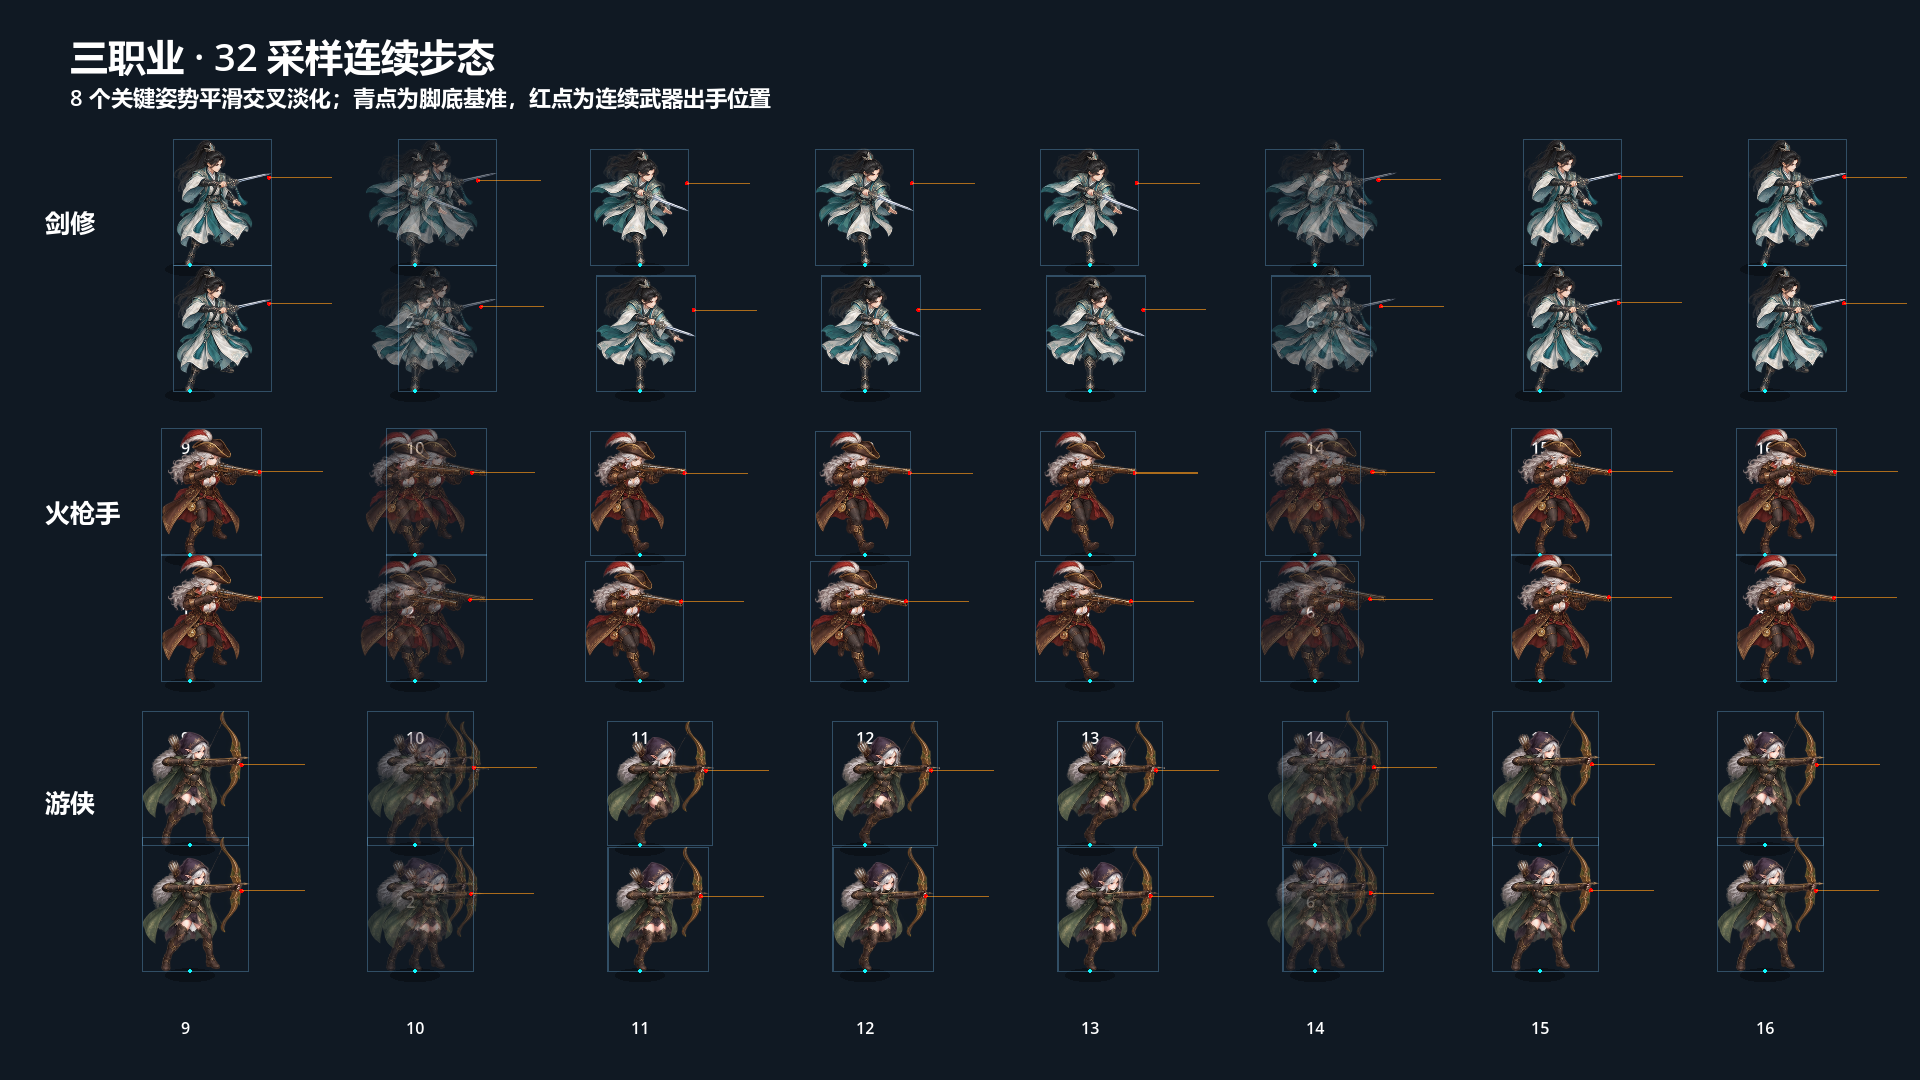
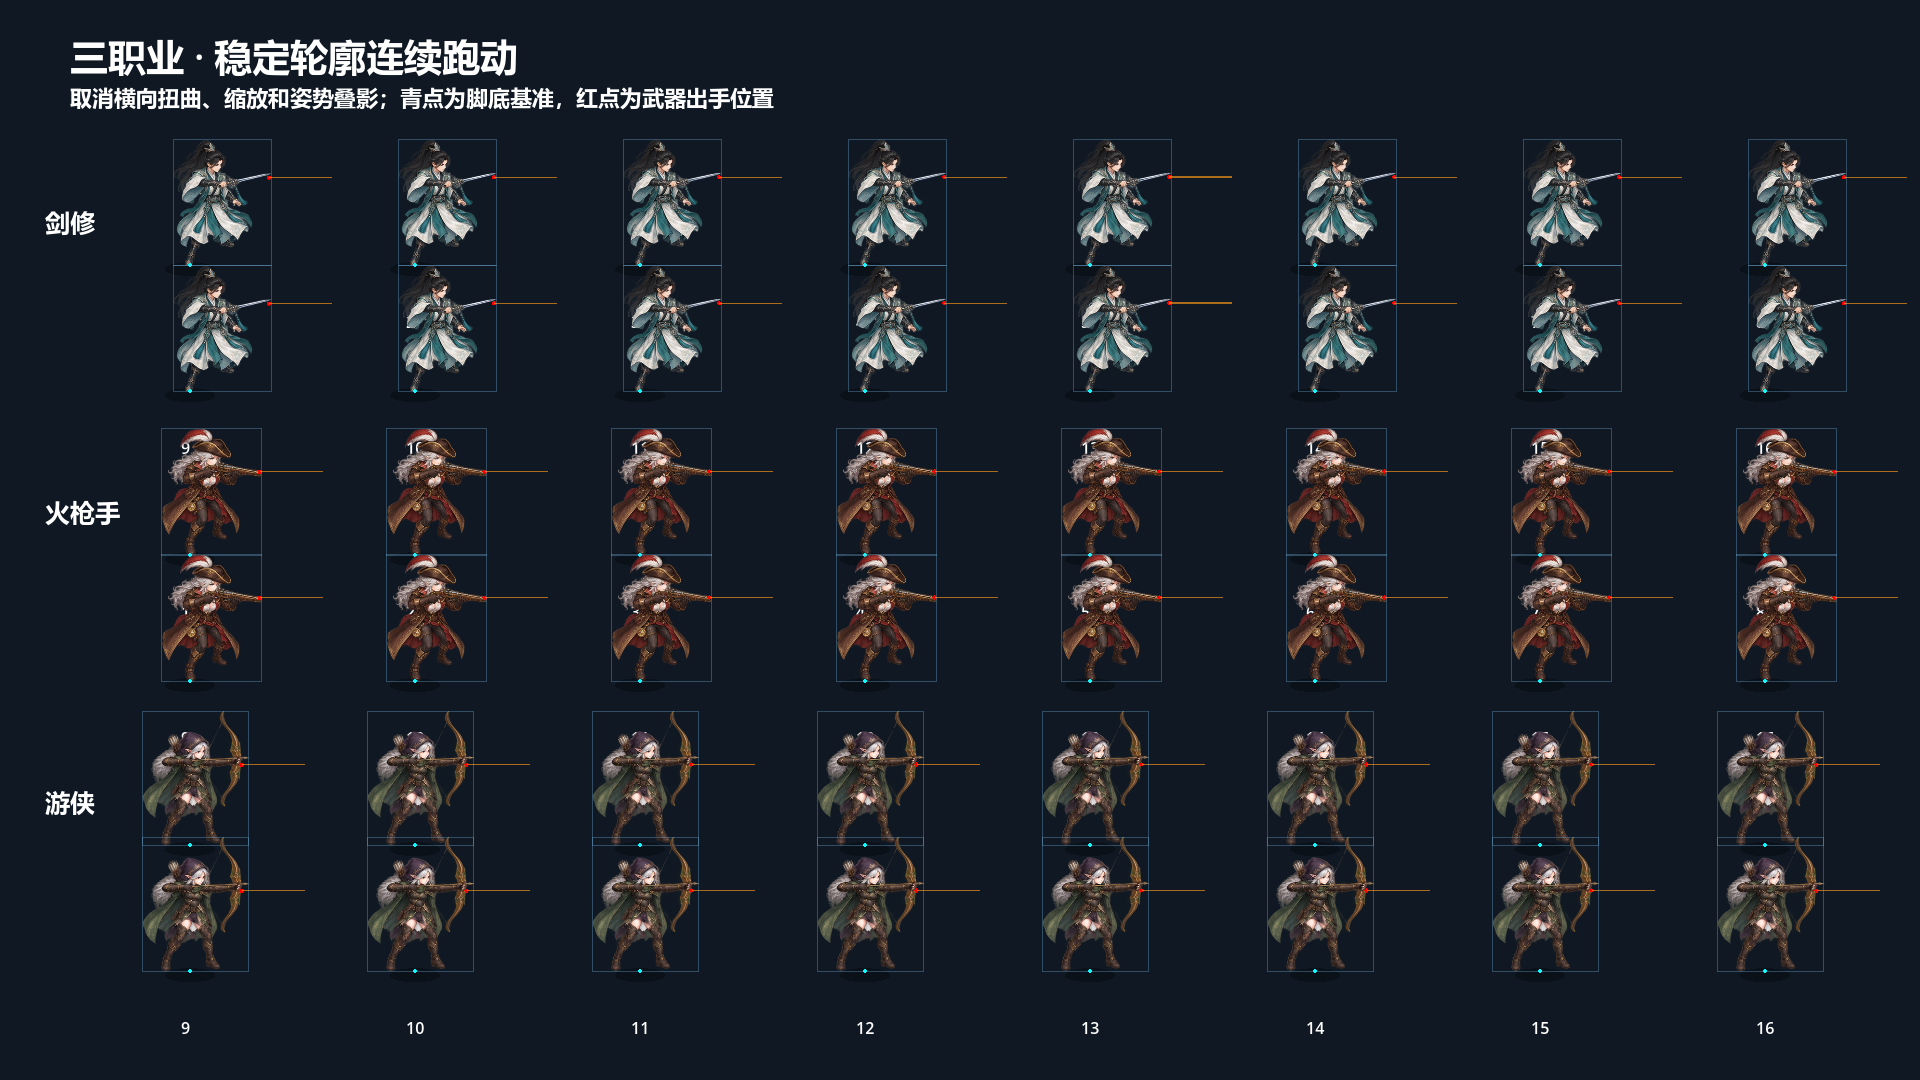
Remove twisting from continuous running

diff --git a/TEST_REPORT.md b/TEST_REPORT.md
@@ -1,3 +1,21 @@
+# 0.11.2 连续跑动去扭曲 · 2026-10-04
+
+根据实机反馈，完整持械原画之间的交叉淡化和水平带网格形变仍会让人物在连续跑动时左右扭动。本批固定跑动身体轮廓，移除姿势交叉淡化、横向形变、左右位移、旋转和缩放，只保留不超过 0.55 像素的垂直踏步；武器与特效挂点使用同一垂直偏移。
+
+步态专项逐职业、逐采样检查身体网格坐标完全不变，水平偏移为零、缩放恒为 1、旋转恒为零，并把武器挂点连续位移上限从 12 像素收紧到 1 像素。更新后的 16 时刻对照图覆盖三职业连续跑动，不再出现身体双影。
+
+| 检查 | 断言数 | 结果 |
+|---|---:|---|
+| regression_walk_v7 | 240 | 通过 |
+| regression_motion_v8 | 57 | 通过 |
+| regression_action_v9 | 160 | 通过 |
+| regression_visual_v8 | 23 | 通过 |
+| regression_vfx_v11 | 50 | 通过 |
+| regression_v6 | 548 | 通过 |
+| 合计 | 1078 | 全部通过 |
+
+---
+
 # 0.11.1 行走连续性修复 · 2026-10-04
 
 三职业完整持械行走从八个离散形变采样提升为每周期 32 个连续网格采样；关键原画之间使用平滑过渡，整个人物的左右摇转归零，横向形变、上下起伏和缩放幅度收敛。武器出手点使用与人物相同的连续相位和原画插值，避免视觉平滑后弹道挂点仍然跳动。
